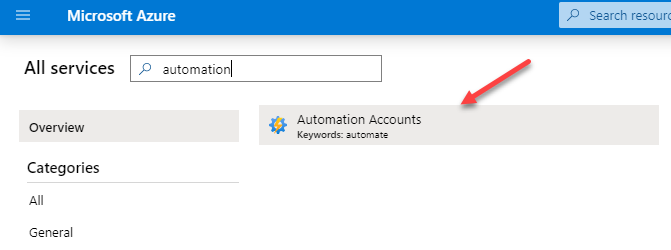
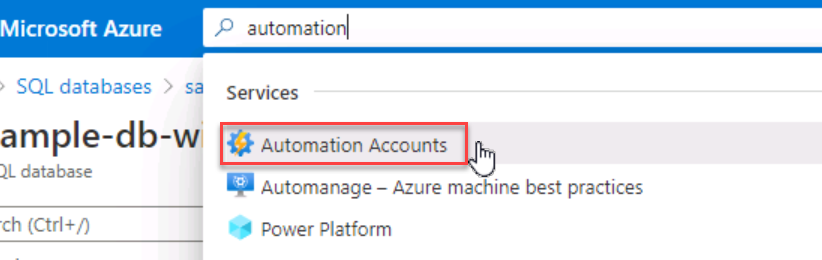
Update instructions.

Changed region(s): [[0.0, 0.0, 1.0, 0.448], [0.0, 0.448, 0.8048, 1.0], [0.0, 0.616, 0.149, 0.7]]

diff --git a/Instructions/Labs/DP-300_06_lab.md b/Instructions/Labs/DP-300_06_lab.md
@@ -262,15 +262,11 @@ The main tasks for this exercise are as follows:
 
     ![A screenshot of a social media post Description automatically generated](../images/dp-3300-module-66-lab-32.png)
 
-9. Click **Run**. The query make take a few seconds to complete. 
+9. Click **Run**. The query should result in the following message: 
 
     ![A screenshot of a social media post Description automatically generated](../images/dp-3300-module-66-lab-33.png)
 
-10. In the Azure portal, expand the left menu and click on **All Services** within the main Azure panel. 
-
-    ![Picture 18](../images/dp-3300-module-66-lab-34.png)
-
-11. Type automation within the search field. Click on **Automation Accounts**. 
+10. In the Azure portal, type automation within the search field. Click on **Automation Accounts**. 
 
     ![Picture 21](../images/dp-3300-module-66-lab-35.png)
 
